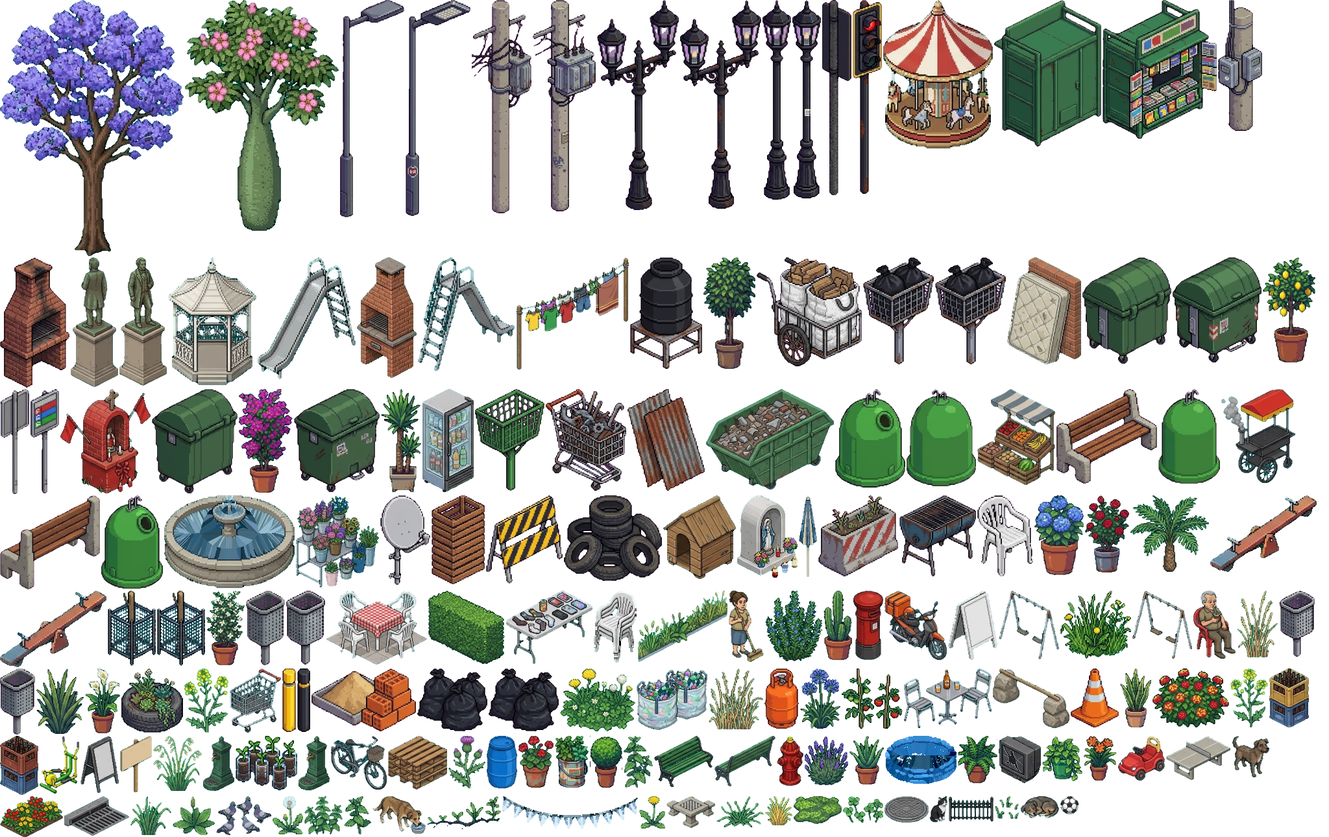
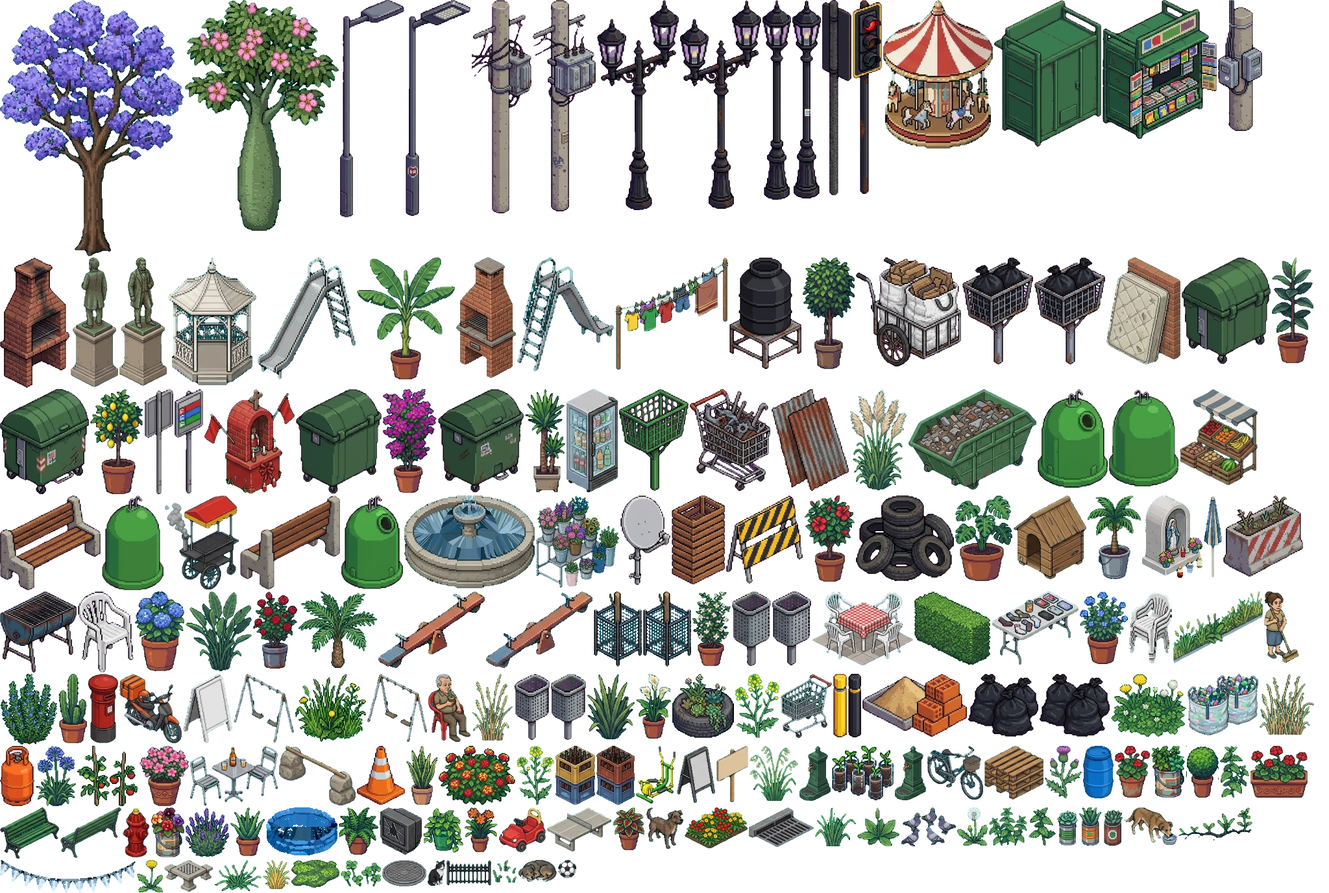
Plantas nuevas de Gemini: hibisco, monstera, gomero, ave del paraíso, azalea, coleo, banano, cortadera, plumbago, begonias, palmera en balde, suculentas en latas y jardinera de malvones
Hoja plantas_04 (persona de referencia, a escala), achicada 2x. Van en las macetas de los frentes, los patios y los canteros de vereda según la zona.

Claude-Session: https://claude.ai/code/session_015eL21ADLwrYXVptdMb8b8s

diff --git a/editor/recursos/hd_props.js b/editor/recursos/hd_props.js
@@ -1,2 +1,2 @@
 // props HD (Gemini, limpiados a 30 px/m con herramientas/pixelar.py; armado con herramientas/armar_hd.py)
-const HD_ASSETS = {"escala": 0.6, "frames": {"antena": {"x": 586, "y": 764, "w": 77, "h": 138, "ox": 38, "oy": 132, "e": 0.173}, "b_arco": {"x": 1530, "y": 1031, "w": 118, "h": 92, "ox": 59, "oy": 87, "e": 0.3706}, "b_autito": {"x": 1723, "y": 1135, "w": 72, "h": 69, "ox": 36, "oy": 64, "e": 0.3706}, "b_bolsones": {"x": 981, "y": 1031, "w": 109, "h": 95, "ox": 54, "oy": 90, "e": 0.3706}, "b_cartel_vende": {"x": 185, "y": 1135, "w": 49, "h": 87, "ox": 24, "oy": 82, "e": 0.3706}, "b_chango_vacio": {"x": 354, "y": 1031, "w": 79, "h": 99, "ox": 39, "oy": 94, "e": 0.3706}, "b_jaula": {"x": 242, "y": 911, "w": 74, "h": 116, "ox": 37, "oy": 107, "e": 0.2672}, "b_mesa_patio": {"x": 503, "y": 911, "w": 155, "h": 114, "ox": 77, "oy": 109, "e": 0.3706}, "b_mujer_barre": {"x": 1123, "y": 911, "w": 54, "h": 110, "ox": 27, "oy": 105, "e": 0.3706}, "b_pallets": {"x": 598, "y": 1135, "w": 91, "h": 83, "ox": 45, "oy": 78, "e": 0.3706}, "b_pelota": {"x": 1634, "y": 1228, "w": 28, "h": 28, "ox": 14, "oy": 23, "e": 0.3706}, "b_perro_bebe": {"x": 574, "y": 1228, "w": 82, "h": 58, "ox": 41, "oy": 53, "e": 0.3706}, "b_sombrilla": {"x": 1231, "y": 764, "w": 28, "h": 126, "ox": 14, "oy": 121, "e": 0.3706}, "b_tacho_azul": {"x": 750, "y": 1135, "w": 47, "h": 81, "ox": 23, "oy": 76, "e": 0.3706}, "b_tendedero": {"x": 795, "y": 397, "w": 174, "h": 173, "ox": 87, "oy": 168, "e": 0.3706}, "b_viejo_mate": {"x": 1839, "y": 911, "w": 65, "h": 105, "ox": 32, "oy": 100, "e": 0.3706}, "bolsas_0": {"x": 643, "y": 1031, "w": 108, "h": 97, "ox": 54, "oy": 88, "e": 0.1635}, "bolsas_1": {"x": 753, "y": 1031, "w": 108, "h": 97, "ox": 54, "oy": 88, "e": 0.1635}, "c_bici": {"x": 510, "y": 1135, "w": 86, "h": 83, "ox": 43, "oy": 79, "e": 0.4173}, "c_buzon": {"x": 1315, "y": 911, "w": 46, "h": 107, "ox": 23, "oy": 103, "e": 0.4173}, "c_chori": {"x": 1882, "y": 600, "w": 114, "h": 145, "ox": 57, "oy": 141, "e": 0.4173}, "c_gato": {"x": 1433, "y": 1228, "w": 27, "h": 40, "ox": 13, "oy": 36, "e": 0.4173}, "c_hidrante": {"x": 1197, "y": 1135, "w": 41, "h": 77, "ox": 20, "oy": 73, "e": 0.4173}, "c_mesa_bar": {"x": 1393, "y": 1031, "w": 135, "h": 92, "ox": 67, "oy": 88, "e": 0.4173}, "c_moto": {"x": 1363, "y": 911, "w": 96, "h": 107, "ox": 48, "oy": 103, "e": 0.4173}, "c_palomas": {"x": 333, "y": 1228, "w": 85, "h": 60, "ox": 42, "oy": 56, "e": 0.4173}, "c_perro": {"x": 1898, "y": 1135, "w": 58, "h": 64, "ox": 29, "oy": 60, "e": 0.4173}, "c_perro_duerme": {"x": 1572, "y": 1228, "w": 60, "h": 34, "ox": 30, "oy": 30, "e": 0.4173}, "c_puesto_flores": {"x": 456, "y": 764, "w": 128, "h": 142, "ox": 64, "oy": 138, "e": 0.4173}, "c_puesto_frutas": {"x": 1506, "y": 600, "w": 120, "h": 148, "ox": 60, "oy": 144, "e": 0.4173}, "c_rejilla": {"x": 99, "y": 1228, "w": 100, "h": 61, "ox": 50, "oy": 57, "e": 0.4173}, "c_tapa": {"x": 1363, "y": 1228, "w": 68, "h": 41, "ox": 34, "oy": 37, "e": 0.4173}, "c_volquete": {"x": 1088, "y": 600, "w": 197, "h": 155, "ox": 98, "oy": 151, "e": 0.4173}, "cajones": {"x": 665, "y": 764, "w": 82, "h": 137, "ox": 41, "oy": 126, "e": 0.173}, "canasto_0": {"x": 1330, "y": 397, "w": 109, "h": 165, "ox": 54, "oy": 147, "e": 0.1635}, "canasto_1": {"x": 732, "y": 600, "w": 107, "h": 157, "ox": 53, "oy": 139, "e": 0.1635}, "canasto_2": {"x": 1441, "y": 397, "w": 109, "h": 165, "ox": 54, "oy": 147, "e": 0.1635}, "carro_cartonero": {"x": 1166, "y": 397, "w": 162, "h": 168, "ox": 81, "oy": 159, "e": 0.173}, "chango": {"x": 841, "y": 600, "w": 124, "h": 157, "ox": 62, "oy": 133, "e": 0.173}, "chapas": {"x": 967, "y": 600, "w": 119, "h": 157, "ox": 59, "oy": 146, "e": 0.173}, "garrafa": {"x": 1178, "y": 1031, "w": 53, "h": 93, "ox": 26, "oy": 84, "e": 0.173}, "gomas": {"x": 869, "y": 764, "w": 151, "h": 132, "ox": 75, "oy": 105, "e": 0.173}, "k_banderines": {"x": 774, "y": 1228, "w": 209, "h": 51, "ox": 104, "oy": 46, "e": 0.3733}, "k_cajones_botellas": {"x": 1956, "y": 1031, "w": 61, "h": 91, "ox": 30, "oy": 86, "e": 0.3733}, "k_cajones_botellas_b": {"x": 0, "y": 1135, "w": 59, "h": 91, "ox": 29, "oy": 86, "e": 0.3733}, "k_colchon": {"x": 1552, "y": 397, "w": 114, "h": 165, "ox": 57, "oy": 160, "e": 0.3733}, "k_cucha": {"x": 1022, "y": 764, "w": 112, "h": 129, "ox": 56, "oy": 124, "e": 0.3733}, "k_gauchito": {"x": 93, "y": 600, "w": 139, "h": 161, "ox": 69, "oy": 156, "e": 0.3733}, "k_heladera": {"x": 651, "y": 600, "w": 79, "h": 159, "ox": 39, "oy": 154, "e": 0.3733}, "k_mantero": {"x": 780, "y": 911, "w": 133, "h": 113, "ox": 66, "oy": 108, "e": 0.3733}, "k_pelopincho": {"x": 1364, "y": 1135, "w": 110, "h": 74, "ox": 55, "oy": 69, "e": 0.3733}, "k_pizarra_helado": {"x": 1461, "y": 911, "w": 76, "h": 107, "ox": 38, "oy": 102, "e": 0.3733}, "k_sillas_pila": {"x": 915, "y": 911, "w": 66, "h": 111, "ox": 33, "oy": 106, "e": 0.3733}, "k_tele": {"x": 1539, "y": 1135, "w": 65, "h": 73, "ox": 32, "oy": 68, "e": 0.3733}, "k_virgen": {"x": 1136, "y": 764, "w": 93, "h": 127, "ox": 46, "oy": 122, "e": 0.3733}, "obra_material": {"x": 480, "y": 1031, "w": 161, "h": 97, "ox": 80, "oy": 88, "e": 0.1635}, "parrilla": {"x": 0, "y": 397, "w": 107, "h": 201, "ox": 53, "oy": 172, "e": 0.1635}, "parrilla_b": {"x": 550, "y": 397, "w": 92, "h": 186, "ox": 46, "oy": 181, "e": 0.3733}, "parrilla_tambor": {"x": 1386, "y": 764, "w": 118, "h": 125, "ox": 59, "oy": 108, "e": 0.173}, "pizarra_0": {"x": 124, "y": 1135, "w": 59, "h": 88, "ox": 29, "oy": 83, "e": 0.3706}, "pl_aloe": {"x": 1309, "y": 1135, "w": 53, "h": 75, "ox": 26, "oy": 67, "e": 0.184}, "pl_balde": {"x": 855, "y": 1135, "w": 52, "h": 80, "ox": 26, "oy": 72, "e": 0.184}, "pl_boj": {"x": 909, "y": 1135, "w": 50, "h": 80, "ox": 25, "oy": 72, "e": 0.184}, "pl_botellas": {"x": 363, "y": 1135, "w": 95, "h": 84, "ox": 47, "oy": 67, "e": 0.1134}, "pl_cactus": {"x": 1269, "y": 911, "w": 44, "h": 107, "ox": 22, "oy": 99, "e": 0.184}, "pl_calas": {"x": 131, "y": 1031, "w": 54, "h": 100, "ox": 27, "oy": 92, "e": 0.184}, "pl_clivia": {"x": 1670, "y": 1135, "w": 51, "h": 69, "ox": 25, "oy": 61, "e": 0.184}, "pl_cubierta": {"x": 187, "y": 1031, "w": 95, "h": 99, "ox": 47, "oy": 76, "e": 0.1431}, "pl_ficus": {"x": 1084, "y": 397, "w": 80, "h": 172, "ox": 40, "oy": 164, "e": 0.184}, "pl_helecho": {"x": 1476, "y": 1135, "w": 61, "h": 73, "ox": 30, "oy": 65, "e": 0.184}, "pl_hortensia": {"x": 1594, "y": 764, "w": 76, "h": 123, "ox": 38, "oy": 115, "e": 0.184}, "pl_jaula": {"x": 166, "y": 911, "w": 74, "h": 116, "ox": 37, "oy": 107, "e": 0.2672}, "pl_lavanda": {"x": 1240, "y": 1135, "w": 67, "h": 76, "ox": 33, "oy": 68, "e": 0.184}, "pl_ligustrina": {"x": 660, "y": 911, "w": 118, "h": 113, "ox": 59, "oy": 106, "e": 0.2441}, "pl_limonero": {"x": 1946, "y": 397, "w": 81, "h": 162, "ox": 40, "oy": 154, "e": 0.184}, "pl_malvon": {"x": 799, "y": 1135, "w": 54, "h": 80, "ox": 27, "oy": 72, "e": 0.184}, "pl_potus": {"x": 1606, "y": 1135, "w": 62, "h": 70, "ox": 31, "oy": 62, "e": 0.184}, "pl_sansevieria": {"x": 1726, "y": 1031, "w": 48, "h": 91, "ox": 24, "oy": 83, "e": 0.184}, "pl_trebol": {"x": 863, "y": 1031, "w": 116, "h": 97, "ox": 58, "oy": 85, "e": 0.1247}, "plm_agapanto": {"x": 1233, "y": 1031, "w": 62, "h": 93, "ox": 31, "oy": 85, "e": 0.184}, "plm_formio": {"x": 56, "y": 1031, "w": 73, "h": 101, "ox": 36, "oy": 93, "e": 0.184}, "plm_jazmin": {"x": 318, "y": 911, "w": 59, "h": 115, "ox": 29, "oy": 107, "e": 0.184}, "plm_lantana": {"x": 1776, "y": 1031, "w": 118, "h": 91, "ox": 59, "oy": 73, "e": 0.1891}, "plm_pindo": {"x": 1742, "y": 764, "w": 121, "h": 118, "ox": 60, "oy": 103, "e": 0.3821}, "plm_romero": {"x": 1179, "y": 911, "w": 88, "h": 109, "ox": 44, "oy": 93, "e": 0.1783}, "plm_rosal": {"x": 1672, "y": 764, "w": 68, "h": 119, "ox": 34, "oy": 111, "e": 0.184}, "plm_santarita": {"x": 368, "y": 600, "w": 83, "h": 160, "ox": 41, "oy": 152, "e": 0.184}, "plm_tomates": {"x": 1297, "y": 1031, "w": 94, "h": 93, "ox": 47, "oy": 83, "e": 0.1895}, "plm_yuca": {"x": 587, "y": 600, "w": 62, "h": 159, "ox": 31, "oy": 151, "e": 0.184}, "plm_yuyos": {"x": 1634, "y": 911, "w": 109, "h": 105, "ox": 54, "oy": 89, "e": 0.1776}, "pz_ajedrez": {"x": 1027, "y": 1228, "w": 75, "h": 49, "ox": 37, "oy": 45, "e": 0.4349}, "pz_aparato": {"x": 61, "y": 1135, "w": 61, "h": 89, "ox": 30, "oy": 76, "e": 0.3835}, "pz_banco": {"x": 1008, "y": 1135, "w": 91, "h": 79, "ox": 45, "oy": 74, "e": 0.358}, "pz_banco_atras": {"x": 1101, "y": 1135, "w": 94, "h": 78, "ox": 47, "oy": 73, "e": 0.3465}, "pz_bebedero": {"x": 460, "y": 1135, "w": 48, "h": 84, "ox": 24, "oy": 76, "e": 0.247}, "pz_bebedero_atras": {"x": 313, "y": 1135, "w": 48, "h": 85, "ox": 24, "oy": 77, "e": 0.2455}, "pz_calesita": {"x": 1361, "y": 0, "w": 169, "h": 229, "ox": 84, "oy": 225, "e": 0.4793}, "pz_cantero": {"x": 0, "y": 1228, "w": 97, "h": 63, "ox": 48, "oy": 59, "e": 0.4663}, "pz_fuente": {"x": 253, "y": 764, "w": 201, "h": 143, "ox": 100, "oy": 139, "e": 0.403}, "pz_glorieta": {"x": 259, "y": 397, "w": 136, "h": 197, "ox": 68, "oy": 193, "e": 0.4633}, "pz_hamacas": {"x": 1745, "y": 911, "w": 92, "h": 105, "ox": 46, "oy": 90, "e": 0.4872}, "pz_hamacas_atras": {"x": 1539, "y": 911, "w": 93, "h": 106, "ox": 46, "oy": 91, "e": 0.4826}, "pz_jacaranda": {"x": 0, "y": 0, "w": 283, "h": 395, "ox": 141, "oy": 369, "e": 0.3613}, "pz_monumento": {"x": 184, "y": 397, "w": 73, "h": 198, "ox": 36, "oy": 184, "e": 0.5012}, "pz_monumento_atras": {"x": 109, "y": 397, "w": 73, "h": 200, "ox": 36, "oy": 185, "e": 0.4962}, "pz_palo_borracho": {"x": 285, "y": 0, "w": 237, "h": 356, "ox": 118, "oy": 331, "e": 0.379}, "pz_pingpong": {"x": 1797, "y": 1135, "w": 99, "h": 68, "ox": 49, "oy": 64, "e": 0.4934}, "pz_reja": {"x": 1462, "y": 1228, "w": 69, "h": 39, "ox": 34, "oy": 35, "e": 0.5218}, "pz_subibaja": {"x": 1865, "y": 764, "w": 164, "h": 118, "ox": 82, "oy": 113, "e": 0.3293}, "pz_subibaja_atras": {"x": 0, "y": 911, "w": 164, "h": 118, "ox": 82, "oy": 113, "e": 0.3293}, "pz_tobogan": {"x": 397, "y": 397, "w": 151, "h": 188, "ox": 75, "oy": 183, "e": 0.3576}, "pz_tobogan_atras": {"x": 644, "y": 397, "w": 149, "h": 176, "ox": 74, "oy": 171, "e": 0.3624}, "silla": {"x": 1506, "y": 764, "w": 86, "h": 125, "ox": 43, "oy": 111, "e": 0.173}, "u_banco": {"x": 1628, "y": 600, "w": 155, "h": 146, "ox": 77, "oy": 139, "e": 0.2304}, "u_banco_atras": {"x": 0, "y": 764, "w": 154, "h": 145, "ox": 77, "oy": 138, "e": 0.2275}, "u_bolardo_amarillo": {"x": 435, "y": 1031, "w": 21, "h": 98, "ox": 10, "oy": 91, "e": 0.1635}, "u_bolardo_negro": {"x": 458, "y": 1031, "w": 20, "h": 98, "ox": 10, "oy": 91, "e": 0.1635}, "u_campana": {"x": 1287, "y": 600, "w": 108, "h": 152, "ox": 54, "oy": 126, "e": 0.2304}, "u_campana_atras": {"x": 1397, "y": 600, "w": 107, "h": 150, "ox": 53, "oy": 123, "e": 0.2275}, "u_campana_b": {"x": 156, "y": 764, "w": 95, "h": 144, "ox": 47, "oy": 118, "e": 0.2304}, "u_campana_b_atras": {"x": 1785, "y": 600, "w": 95, "h": 146, "ox": 47, "oy": 119, "e": 0.2275}, "u_cesto": {"x": 1971, "y": 911, "w": 55, "h": 102, "ox": 27, "oy": 93, "e": 0.2304}, "u_cesto_atras": {"x": 0, "y": 1031, "w": 54, "h": 102, "ox": 27, "oy": 93, "e": 0.2275}, "u_cesto_b": {"x": 441, "y": 911, "w": 60, "h": 114, "ox": 30, "oy": 105, "e": 0.2304}, "u_cesto_b_atras": {"x": 379, "y": 911, "w": 60, "h": 115, "ox": 30, "oy": 106, "e": 0.2275}, "u_cono": {"x": 1650, "y": 1031, "w": 74, "h": 91, "ox": 37, "oy": 79, "e": 0.1635}, "u_contenedor": {"x": 1807, "y": 397, "w": 137, "h": 162, "ox": 68, "oy": 138, "e": 0.2304}, "u_contenedor_atras": {"x": 1668, "y": 397, "w": 137, "h": 164, "ox": 68, "oy": 139, "e": 0.2275}, "u_contenedor_b": {"x": 453, "y": 600, "w": 132, "h": 159, "ox": 66, "oy": 135, "e": 0.2304}, "u_contenedor_b_atras": {"x": 234, "y": 600, "w": 132, "h": 161, "ox": 66, "oy": 136, "e": 0.2275}, "u_farol_doble": {"x": 1048, "y": 0, "w": 125, "h": 322, "ox": 62, "oy": 315, "e": 0.223}, "u_farol_doble_atras": {"x": 920, "y": 0, "w": 126, "h": 324, "ox": 63, "oy": 317, "e": 0.2216}, "u_farola": {"x": 625, "y": 0, "w": 100, "h": 333, "ox": 50, "oy": 329, "e": 0.4219}, "u_farola_atras": {"x": 524, "y": 0, "w": 99, "h": 335, "ox": 49, "oy": 331, "e": 0.4188}, "u_farola_orn": {"x": 1221, "y": 0, "w": 44, "h": 306, "ox": 22, "oy": 298, "e": 0.2041}, "u_farola_orn_atras": {"x": 1175, "y": 0, "w": 44, "h": 308, "ox": 22, "oy": 300, "e": 0.2028}, "u_kiosco": {"x": 1699, "y": 0, "w": 176, "h": 214, "ox": 88, "oy": 182, "e": 0.2304}, "u_kiosco_atras": {"x": 1532, "y": 0, "w": 165, "h": 226, "ox": 82, "oy": 193, "e": 0.2275}, "u_macetero": {"x": 1261, "y": 764, "w": 123, "h": 125, "ox": 61, "oy": 102, "e": 0.1635}, "u_parada": {"x": 47, "y": 600, "w": 44, "h": 161, "ox": 22, "oy": 158, "e": 0.2304}, "u_parada_atras": {"x": 0, "y": 600, "w": 45, "h": 162, "ox": 22, "oy": 159, "e": 0.2275}, "u_poste_trafo": {"x": 821, "y": 0, "w": 97, "h": 326, "ox": 48, "oy": 321, "e": 0.364}, "u_poste_trafo_atras": {"x": 727, "y": 0, "w": 92, "h": 329, "ox": 46, "oy": 324, "e": 0.3607}, "u_semaforo": {"x": 1314, "y": 0, "w": 45, "h": 299, "ox": 22, "oy": 291, "e": 0.188}, "u_semaforo_atras": {"x": 1267, "y": 0, "w": 45, "h": 301, "ox": 22, "oy": 293, "e": 0.1864}, "u_tablero": {"x": 1877, "y": 0, "w": 68, "h": 202, "ox": 34, "oy": 190, "e": 0.1635}, "u_tanque": {"x": 971, "y": 397, "w": 111, "h": 172, "ox": 55, "oy": 145, "e": 0.173}, "u_valla": {"x": 749, "y": 764, "w": 118, "h": 136, "ox": 59, "oy": 118, "e": 0.1635}, "yy_avena": {"x": 236, "y": 1135, "w": 75, "h": 85, "ox": 37, "oy": 78, "e": 0.2255}, "yy_brotes": {"x": 1533, "y": 1228, "w": 37, "h": 35, "ox": 18, "oy": 28, "e": 0.2255}, "yy_cardo": {"x": 691, "y": 1135, "w": 57, "h": 81, "ox": 28, "oy": 74, "e": 0.2255}, "yy_cola_zorro": {"x": 201, "y": 1228, "w": 63, "h": 60, "ox": 31, "oy": 53, "e": 0.2255}, "yy_cordon": {"x": 983, "y": 911, "w": 138, "h": 110, "ox": 69, "oy": 103, "e": 0.2087}, "yy_diente_leon": {"x": 985, "y": 1228, "w": 40, "h": 50, "ox": 20, "oy": 43, "e": 0.2255}, "yy_diente_leon_b": {"x": 420, "y": 1228, "w": 47, "h": 59, "ox": 23, "oy": 52, "e": 0.2255}, "yy_gramilla": {"x": 1104, "y": 1228, "w": 73, "h": 48, "ox": 36, "oy": 41, "e": 0.2255}, "yy_grieta": {"x": 658, "y": 1228, "w": 114, "h": 51, "ox": 57, "oy": 38, "e": 0.111}, "yy_llanten": {"x": 266, "y": 1228, "w": 65, "h": 60, "ox": 32, "oy": 53, "e": 0.2255}, "yy_mostacilla": {"x": 284, "y": 1031, "w": 68, "h": 99, "ox": 34, "oy": 92, "e": 0.2255}, "yy_mostacilla_b": {"x": 1896, "y": 1031, "w": 58, "h": 91, "ox": 29, "oy": 84, "e": 0.2255}, "yy_musgo": {"x": 1223, "y": 1228, "w": 74, "h": 43, "ox": 37, "oy": 36, "e": 0.2255}, "yy_ortiga": {"x": 469, "y": 1228, "w": 59, "h": 59, "ox": 29, "oy": 52, "e": 0.2255}, "yy_ortiga_b": {"x": 530, "y": 1228, "w": 42, "h": 59, "ox": 21, "oy": 52, "e": 0.2255}, "yy_ortiga_c": {"x": 961, "y": 1135, "w": 45, "h": 80, "ox": 22, "oy": 73, "e": 0.2255}, "yy_pasto_seco": {"x": 1179, "y": 1228, "w": 42, "h": 45, "ox": 21, "oy": 38, "e": 0.2255}, "yy_seco_alto": {"x": 1092, "y": 1031, "w": 84, "h": 94, "ox": 42, "oy": 87, "e": 0.2255}, "yy_seco_alto_b": {"x": 1906, "y": 911, "w": 63, "h": 103, "ox": 31, "oy": 96, "e": 0.2255}, "yy_trebol": {"x": 1299, "y": 1228, "w": 62, "h": 41, "ox": 31, "oy": 34, "e": 0.2255}}};
+const HD_ASSETS = {"escala": 0.6, "frames": {"antena": {"x": 956, "y": 764, "w": 77, "h": 138, "ox": 38, "oy": 132, "e": 0.173}, "b_arco": {"x": 430, "y": 1150, "w": 118, "h": 92, "ox": 59, "oy": 87, "e": 0.3706}, "b_autito": {"x": 769, "y": 1245, "w": 72, "h": 69, "ox": 36, "oy": 64, "e": 0.3706}, "b_bolsones": {"x": 1830, "y": 1039, "w": 109, "h": 95, "ox": 54, "oy": 90, "e": 0.3706}, "b_cartel_vende": {"x": 1104, "y": 1150, "w": 49, "h": 87, "ox": 24, "oy": 82, "e": 0.3706}, "b_chango_vacio": {"x": 1203, "y": 1039, "w": 79, "h": 99, "ox": 39, "oy": 94, "e": 0.3706}, "b_jaula": {"x": 991, "y": 912, "w": 74, "h": 116, "ox": 37, "oy": 107, "e": 0.2672}, "b_mesa_patio": {"x": 1252, "y": 912, "w": 155, "h": 114, "ox": 77, "oy": 109, "e": 0.3706}, "b_mujer_barre": {"x": 1948, "y": 912, "w": 54, "h": 110, "ox": 27, "oy": 105, "e": 0.3706}, "b_pallets": {"x": 1517, "y": 1150, "w": 91, "h": 83, "ox": 45, "oy": 78, "e": 0.3706}, "b_pelota": {"x": 860, "y": 1326, "w": 28, "h": 28, "ox": 14, "oy": 23, "e": 0.3706}, "b_perro_bebe": {"x": 1732, "y": 1245, "w": 82, "h": 58, "ox": 41, "oy": 53, "e": 0.3706}, "b_sombrilla": {"x": 1855, "y": 764, "w": 28, "h": 126, "ox": 14, "oy": 121, "e": 0.3706}, "b_tacho_azul": {"x": 1669, "y": 1150, "w": 47, "h": 81, "ox": 23, "oy": 76, "e": 0.3706}, "b_tendedero": {"x": 948, "y": 397, "w": 174, "h": 173, "ox": 87, "oy": 168, "e": 0.3706}, "b_viejo_mate": {"x": 660, "y": 1039, "w": 65, "h": 105, "ox": 32, "oy": 100, "e": 0.3706}, "bolsas_0": {"x": 1492, "y": 1039, "w": 108, "h": 97, "ox": 54, "oy": 88, "e": 0.1635}, "bolsas_1": {"x": 1602, "y": 1039, "w": 108, "h": 97, "ox": 54, "oy": 88, "e": 0.1635}, "c_bici": {"x": 1429, "y": 1150, "w": 86, "h": 83, "ox": 43, "oy": 79, "e": 0.4173}, "c_buzon": {"x": 136, "y": 1039, "w": 46, "h": 107, "ox": 23, "oy": 103, "e": 0.4173}, "c_chori": {"x": 254, "y": 764, "w": 114, "h": 145, "ox": 57, "oy": 141, "e": 0.4173}, "c_gato": {"x": 659, "y": 1326, "w": 27, "h": 40, "ox": 13, "oy": 36, "e": 0.4173}, "c_hidrante": {"x": 189, "y": 1245, "w": 41, "h": 77, "ox": 20, "oy": 73, "e": 0.4173}, "c_mesa_bar": {"x": 293, "y": 1150, "w": 135, "h": 92, "ox": 67, "oy": 88, "e": 0.4173}, "c_moto": {"x": 184, "y": 1039, "w": 96, "h": 107, "ox": 48, "oy": 103, "e": 0.4173}, "c_palomas": {"x": 1388, "y": 1245, "w": 85, "h": 60, "ox": 42, "oy": 56, "e": 0.4173}, "c_perro": {"x": 995, "y": 1245, "w": 58, "h": 64, "ox": 29, "oy": 60, "e": 0.4173}, "c_perro_duerme": {"x": 798, "y": 1326, "w": 60, "h": 34, "ox": 30, "oy": 30, "e": 0.4173}, "c_puesto_flores": {"x": 826, "y": 764, "w": 128, "h": 142, "ox": 64, "oy": 138, "e": 0.4173}, "c_puesto_frutas": {"x": 1818, "y": 600, "w": 120, "h": 148, "ox": 60, "oy": 144, "e": 0.4173}, "c_rejilla": {"x": 1154, "y": 1245, "w": 100, "h": 61, "ox": 50, "oy": 57, "e": 0.4173}, "c_tapa": {"x": 589, "y": 1326, "w": 68, "h": 41, "ox": 34, "oy": 37, "e": 0.4173}, "c_volquete": {"x": 1400, "y": 600, "w": 197, "h": 155, "ox": 98, "oy": 151, "e": 0.4173}, "cajones": {"x": 1035, "y": 764, "w": 82, "h": 137, "ox": 41, "oy": 126, "e": 0.173}, "canasto_0": {"x": 1483, "y": 397, "w": 109, "h": 165, "ox": 54, "oy": 147, "e": 0.1635}, "canasto_1": {"x": 954, "y": 600, "w": 107, "h": 157, "ox": 53, "oy": 139, "e": 0.1635}, "canasto_2": {"x": 1594, "y": 397, "w": 109, "h": 165, "ox": 54, "oy": 147, "e": 0.1635}, "carro_cartonero": {"x": 1319, "y": 397, "w": 162, "h": 168, "ox": 81, "oy": 159, "e": 0.173}, "chango": {"x": 1063, "y": 600, "w": 124, "h": 157, "ox": 62, "oy": 133, "e": 0.173}, "chapas": {"x": 1189, "y": 600, "w": 119, "h": 157, "ox": 59, "oy": 146, "e": 0.173}, "garrafa": {"x": 0, "y": 1150, "w": 53, "h": 93, "ox": 26, "oy": 84, "e": 0.173}, "gomas": {"x": 1319, "y": 764, "w": 151, "h": 132, "ox": 75, "oy": 105, "e": 0.173}, "k_banderines": {"x": 0, "y": 1326, "w": 209, "h": 51, "ox": 104, "oy": 46, "e": 0.3733}, "k_cajones_botellas": {"x": 856, "y": 1150, "w": 61, "h": 91, "ox": 30, "oy": 86, "e": 0.3733}, "k_cajones_botellas_b": {"x": 919, "y": 1150, "w": 59, "h": 91, "ox": 29, "oy": 86, "e": 0.3733}, "k_colchon": {"x": 1705, "y": 397, "w": 114, "h": 165, "ox": 57, "oy": 160, "e": 0.3733}, "k_cucha": {"x": 1562, "y": 764, "w": 112, "h": 129, "ox": 56, "oy": 124, "e": 0.3733}, "k_gauchito": {"x": 315, "y": 600, "w": 139, "h": 161, "ox": 69, "oy": 156, "e": 0.3733}, "k_heladera": {"x": 873, "y": 600, "w": 79, "h": 159, "ox": 39, "oy": 154, "e": 0.3733}, "k_mantero": {"x": 1529, "y": 912, "w": 133, "h": 113, "ox": 66, "oy": 108, "e": 0.3733}, "k_pelopincho": {"x": 410, "y": 1245, "w": 110, "h": 74, "ox": 55, "oy": 69, "e": 0.3733}, "k_pizarra_helado": {"x": 282, "y": 1039, "w": 76, "h": 107, "ox": 38, "oy": 102, "e": 0.3733}, "k_sillas_pila": {"x": 1740, "y": 912, "w": 66, "h": 111, "ox": 33, "oy": 106, "e": 0.3733}, "k_tele": {"x": 585, "y": 1245, "w": 65, "h": 73, "ox": 32, "oy": 68, "e": 0.3733}, "k_virgen": {"x": 1760, "y": 764, "w": 93, "h": 127, "ox": 46, "oy": 122, "e": 0.3733}, "obra_material": {"x": 1329, "y": 1039, "w": 161, "h": 97, "ox": 80, "oy": 88, "e": 0.1635}, "parrilla": {"x": 0, "y": 397, "w": 107, "h": 201, "ox": 53, "oy": 172, "e": 0.1635}, "parrilla_b": {"x": 703, "y": 397, "w": 92, "h": 186, "ox": 46, "oy": 181, "e": 0.3733}, "parrilla_tambor": {"x": 0, "y": 912, "w": 118, "h": 125, "ox": 59, "oy": 108, "e": 0.173}, "pizarra_0": {"x": 1043, "y": 1150, "w": 59, "h": 88, "ox": 29, "oy": 83, "e": 0.3706}, "pl_aloe": {"x": 355, "y": 1245, "w": 53, "h": 75, "ox": 26, "oy": 67, "e": 0.184}, "pl_azalea": {"x": 215, "y": 1150, "w": 76, "h": 93, "ox": 38, "oy": 82, "e": 0.1834}, "pl_balde": {"x": 1774, "y": 1150, "w": 52, "h": 80, "ox": 26, "oy": 72, "e": 0.184}, "pl_begonias": {"x": 232, "y": 1245, "w": 52, "h": 77, "ox": 26, "oy": 69, "e": 0.1834}, "pl_boj": {"x": 1828, "y": 1150, "w": 50, "h": 80, "ox": 25, "oy": 72, "e": 0.184}, "pl_botellas": {"x": 1282, "y": 1150, "w": 95, "h": 84, "ox": 47, "oy": 67, "e": 0.1134}, "pl_cactus": {"x": 90, "y": 1039, "w": 44, "h": 107, "ox": 22, "oy": 99, "e": 0.184}, "pl_calas": {"x": 980, "y": 1039, "w": 54, "h": 100, "ox": 27, "oy": 92, "e": 0.184}, "pl_clivia": {"x": 716, "y": 1245, "w": 51, "h": 69, "ox": 25, "oy": 61, "e": 0.184}, "pl_coleo": {"x": 944, "y": 1245, "w": 49, "h": 66, "ox": 24, "oy": 58, "e": 0.1834}, "pl_cubierta": {"x": 1036, "y": 1039, "w": 95, "h": 99, "ox": 47, "oy": 76, "e": 0.1431}, "pl_ficus": {"x": 1237, "y": 397, "w": 80, "h": 172, "ox": 40, "oy": 164, "e": 0.184}, "pl_gomero": {"x": 1960, "y": 397, "w": 64, "h": 163, "ox": 32, "oy": 150, "e": 0.1834}, "pl_helecho": {"x": 522, "y": 1245, "w": 61, "h": 73, "ox": 30, "oy": 65, "e": 0.184}, "pl_hibisco": {"x": 1239, "y": 764, "w": 78, "h": 133, "ox": 39, "oy": 120, "e": 0.1834}, "pl_hortensia": {"x": 208, "y": 912, "w": 76, "h": 123, "ox": 38, "oy": 115, "e": 0.184}, "pl_jardinera": {"x": 1927, "y": 1150, "w": 88, "h": 80, "ox": 44, "oy": 72, "e": 0.1834}, "pl_jaula": {"x": 915, "y": 912, "w": 74, "h": 116, "ox": 37, "oy": 107, "e": 0.2672}, "pl_lavanda": {"x": 286, "y": 1245, "w": 67, "h": 76, "ox": 33, "oy": 68, "e": 0.184}, "pl_ligustrina": {"x": 1409, "y": 912, "w": 118, "h": 113, "ox": 59, "oy": 106, "e": 0.2441}, "pl_limonero": {"x": 139, "y": 600, "w": 81, "h": 162, "ox": 40, "oy": 154, "e": 0.184}, "pl_malvon": {"x": 1718, "y": 1150, "w": 54, "h": 80, "ox": 27, "oy": 72, "e": 0.184}, "pl_monstera": {"x": 1472, "y": 764, "w": 88, "h": 132, "ox": 44, "oy": 116, "e": 0.1834}, "pl_palmera": {"x": 1676, "y": 764, "w": 82, "h": 129, "ox": 41, "oy": 118, "e": 0.1834}, "pl_potus": {"x": 652, "y": 1245, "w": 62, "h": 70, "ox": 31, "oy": 62, "e": 0.184}, "pl_sansevieria": {"x": 626, "y": 1150, "w": 48, "h": 91, "ox": 24, "oy": 83, "e": 0.184}, "pl_suculentas": {"x": 1629, "y": 1245, "w": 101, "h": 59, "ox": 50, "oy": 53, "e": 0.1834}, "pl_trebol": {"x": 1712, "y": 1039, "w": 116, "h": 97, "ox": 58, "oy": 85, "e": 0.1247}, "plm_agapanto": {"x": 55, "y": 1150, "w": 62, "h": 93, "ox": 31, "oy": 85, "e": 0.184}, "plm_banano": {"x": 550, "y": 397, "w": 151, "h": 188, "ox": 75, "oy": 172, "e": 0.1834}, "plm_cortadera": {"x": 1310, "y": 600, "w": 88, "h": 156, "ox": 44, "oy": 135, "e": 0.1834}, "plm_formio": {"x": 905, "y": 1039, "w": 73, "h": 101, "ox": 36, "oy": 93, "e": 0.184}, "plm_jazmin": {"x": 1067, "y": 912, "w": 59, "h": 115, "ox": 29, "oy": 107, "e": 0.184}, "plm_lantana": {"x": 676, "y": 1150, "w": 118, "h": 91, "ox": 59, "oy": 73, "e": 0.1891}, "plm_pindo": {"x": 460, "y": 912, "w": 121, "h": 118, "ox": 60, "oy": 103, "e": 0.3821}, "plm_plumbago": {"x": 1664, "y": 912, "w": 74, "h": 112, "ox": 37, "oy": 99, "e": 0.1834}, "plm_romero": {"x": 0, "y": 1039, "w": 88, "h": 109, "ox": 44, "oy": 93, "e": 0.1783}, "plm_rosal": {"x": 390, "y": 912, "w": 68, "h": 119, "ox": 34, "oy": 111, "e": 0.184}, "plm_santarita": {"x": 590, "y": 600, "w": 83, "h": 160, "ox": 41, "oy": 152, "e": 0.184}, "plm_strelitzia": {"x": 286, "y": 912, "w": 102, "h": 123, "ox": 51, "oy": 107, "e": 0.1834}, "plm_tomates": {"x": 119, "y": 1150, "w": 94, "h": 93, "ox": 47, "oy": 83, "e": 0.1895}, "plm_yuca": {"x": 809, "y": 600, "w": 62, "h": 159, "ox": 31, "oy": 151, "e": 0.184}, "plm_yuyos": {"x": 455, "y": 1039, "w": 109, "h": 105, "ox": 54, "oy": 89, "e": 0.1776}, "pz_ajedrez": {"x": 253, "y": 1326, "w": 75, "h": 49, "ox": 37, "oy": 45, "e": 0.4349}, "pz_aparato": {"x": 980, "y": 1150, "w": 61, "h": 89, "ox": 30, "oy": 76, "e": 0.3835}, "pz_banco": {"x": 0, "y": 1245, "w": 91, "h": 79, "ox": 45, "oy": 74, "e": 0.358}, "pz_banco_atras": {"x": 93, "y": 1245, "w": 94, "h": 78, "ox": 47, "oy": 73, "e": 0.3465}, "pz_bebedero": {"x": 1379, "y": 1150, "w": 48, "h": 84, "ox": 24, "oy": 76, "e": 0.247}, "pz_bebedero_atras": {"x": 1232, "y": 1150, "w": 48, "h": 85, "ox": 24, "oy": 77, "e": 0.2455}, "pz_calesita": {"x": 1361, "y": 0, "w": 169, "h": 229, "ox": 84, "oy": 225, "e": 0.4793}, "pz_cantero": {"x": 1055, "y": 1245, "w": 97, "h": 63, "ox": 48, "oy": 59, "e": 0.4663}, "pz_fuente": {"x": 623, "y": 764, "w": 201, "h": 143, "ox": 100, "oy": 139, "e": 0.403}, "pz_glorieta": {"x": 259, "y": 397, "w": 136, "h": 197, "ox": 68, "oy": 193, "e": 0.4633}, "pz_hamacas": {"x": 566, "y": 1039, "w": 92, "h": 105, "ox": 46, "oy": 90, "e": 0.4872}, "pz_hamacas_atras": {"x": 360, "y": 1039, "w": 93, "h": 106, "ox": 46, "oy": 91, "e": 0.4826}, "pz_jacaranda": {"x": 0, "y": 0, "w": 283, "h": 395, "ox": 141, "oy": 369, "e": 0.3613}, "pz_monumento": {"x": 184, "y": 397, "w": 73, "h": 198, "ox": 36, "oy": 184, "e": 0.5012}, "pz_monumento_atras": {"x": 109, "y": 397, "w": 73, "h": 200, "ox": 36, "oy": 185, "e": 0.4962}, "pz_palo_borracho": {"x": 285, "y": 0, "w": 237, "h": 356, "ox": 118, "oy": 331, "e": 0.379}, "pz_pingpong": {"x": 843, "y": 1245, "w": 99, "h": 68, "ox": 49, "oy": 64, "e": 0.4934}, "pz_reja": {"x": 688, "y": 1326, "w": 69, "h": 39, "ox": 34, "oy": 35, "e": 0.5218}, "pz_subibaja": {"x": 583, "y": 912, "w": 164, "h": 118, "ox": 82, "oy": 113, "e": 0.3293}, "pz_subibaja_atras": {"x": 749, "y": 912, "w": 164, "h": 118, "ox": 82, "oy": 113, "e": 0.3293}, "pz_tobogan": {"x": 397, "y": 397, "w": 151, "h": 188, "ox": 75, "oy": 183, "e": 0.3576}, "pz_tobogan_atras": {"x": 797, "y": 397, "w": 149, "h": 176, "ox": 74, "oy": 171, "e": 0.3624}, "silla": {"x": 120, "y": 912, "w": 86, "h": 125, "ox": 43, "oy": 111, "e": 0.173}, "u_banco": {"x": 0, "y": 764, "w": 155, "h": 146, "ox": 77, "oy": 139, "e": 0.2304}, "u_banco_atras": {"x": 370, "y": 764, "w": 154, "h": 145, "ox": 77, "oy": 138, "e": 0.2275}, "u_bolardo_amarillo": {"x": 1284, "y": 1039, "w": 21, "h": 98, "ox": 10, "oy": 91, "e": 0.1635}, "u_bolardo_negro": {"x": 1307, "y": 1039, "w": 20, "h": 98, "ox": 10, "oy": 91, "e": 0.1635}, "u_campana": {"x": 1599, "y": 600, "w": 108, "h": 152, "ox": 54, "oy": 126, "e": 0.2304}, "u_campana_atras": {"x": 1709, "y": 600, "w": 107, "h": 150, "ox": 53, "oy": 123, "e": 0.2275}, "u_campana_b": {"x": 526, "y": 764, "w": 95, "h": 144, "ox": 47, "oy": 118, "e": 0.2304}, "u_campana_b_atras": {"x": 157, "y": 764, "w": 95, "h": 146, "ox": 47, "oy": 119, "e": 0.2275}, "u_cesto": {"x": 792, "y": 1039, "w": 55, "h": 102, "ox": 27, "oy": 93, "e": 0.2304}, "u_cesto_atras": {"x": 849, "y": 1039, "w": 54, "h": 102, "ox": 27, "oy": 93, "e": 0.2275}, "u_cesto_b": {"x": 1190, "y": 912, "w": 60, "h": 114, "ox": 30, "oy": 105, "e": 0.2304}, "u_cesto_b_atras": {"x": 1128, "y": 912, "w": 60, "h": 115, "ox": 30, "oy": 106, "e": 0.2275}, "u_cono": {"x": 550, "y": 1150, "w": 74, "h": 91, "ox": 37, "oy": 79, "e": 0.1635}, "u_contenedor": {"x": 0, "y": 600, "w": 137, "h": 162, "ox": 68, "oy": 138, "e": 0.2304}, "u_contenedor_atras": {"x": 1821, "y": 397, "w": 137, "h": 164, "ox": 68, "oy": 139, "e": 0.2275}, "u_contenedor_b": {"x": 675, "y": 600, "w": 132, "h": 159, "ox": 66, "oy": 135, "e": 0.2304}, "u_contenedor_b_atras": {"x": 456, "y": 600, "w": 132, "h": 161, "ox": 66, "oy": 136, "e": 0.2275}, "u_farol_doble": {"x": 1048, "y": 0, "w": 125, "h": 322, "ox": 62, "oy": 315, "e": 0.223}, "u_farol_doble_atras": {"x": 920, "y": 0, "w": 126, "h": 324, "ox": 63, "oy": 317, "e": 0.2216}, "u_farola": {"x": 625, "y": 0, "w": 100, "h": 333, "ox": 50, "oy": 329, "e": 0.4219}, "u_farola_atras": {"x": 524, "y": 0, "w": 99, "h": 335, "ox": 49, "oy": 331, "e": 0.4188}, "u_farola_orn": {"x": 1221, "y": 0, "w": 44, "h": 306, "ox": 22, "oy": 298, "e": 0.2041}, "u_farola_orn_atras": {"x": 1175, "y": 0, "w": 44, "h": 308, "ox": 22, "oy": 300, "e": 0.2028}, "u_kiosco": {"x": 1699, "y": 0, "w": 176, "h": 214, "ox": 88, "oy": 182, "e": 0.2304}, "u_kiosco_atras": {"x": 1532, "y": 0, "w": 165, "h": 226, "ox": 82, "oy": 193, "e": 0.2275}, "u_macetero": {"x": 1885, "y": 764, "w": 123, "h": 125, "ox": 61, "oy": 102, "e": 0.1635}, "u_parada": {"x": 269, "y": 600, "w": 44, "h": 161, "ox": 22, "oy": 158, "e": 0.2304}, "u_parada_atras": {"x": 222, "y": 600, "w": 45, "h": 162, "ox": 22, "oy": 159, "e": 0.2275}, "u_poste_trafo": {"x": 821, "y": 0, "w": 97, "h": 326, "ox": 48, "oy": 321, "e": 0.364}, "u_poste_trafo_atras": {"x": 727, "y": 0, "w": 92, "h": 329, "ox": 46, "oy": 324, "e": 0.3607}, "u_semaforo": {"x": 1314, "y": 0, "w": 45, "h": 299, "ox": 22, "oy": 291, "e": 0.188}, "u_semaforo_atras": {"x": 1267, "y": 0, "w": 45, "h": 301, "ox": 22, "oy": 293, "e": 0.1864}, "u_tablero": {"x": 1877, "y": 0, "w": 68, "h": 202, "ox": 34, "oy": 190, "e": 0.1635}, "u_tanque": {"x": 1124, "y": 397, "w": 111, "h": 172, "ox": 55, "oy": 145, "e": 0.173}, "u_valla": {"x": 1119, "y": 764, "w": 118, "h": 136, "ox": 59, "oy": 118, "e": 0.1635}, "yy_avena": {"x": 1155, "y": 1150, "w": 75, "h": 85, "ox": 37, "oy": 78, "e": 0.2255}, "yy_brotes": {"x": 759, "y": 1326, "w": 37, "h": 35, "ox": 18, "oy": 28, "e": 0.2255}, "yy_cardo": {"x": 1610, "y": 1150, "w": 57, "h": 81, "ox": 28, "oy": 74, "e": 0.2255}, "yy_cola_zorro": {"x": 1256, "y": 1245, "w": 63, "h": 60, "ox": 31, "oy": 53, "e": 0.2255}, "yy_cordon": {"x": 1808, "y": 912, "w": 138, "h": 110, "ox": 69, "oy": 103, "e": 0.2087}, "yy_diente_leon": {"x": 211, "y": 1326, "w": 40, "h": 50, "ox": 20, "oy": 43, "e": 0.2255}, "yy_diente_leon_b": {"x": 1475, "y": 1245, "w": 47, "h": 59, "ox": 23, "oy": 52, "e": 0.2255}, "yy_gramilla": {"x": 330, "y": 1326, "w": 73, "h": 48, "ox": 36, "oy": 41, "e": 0.2255}, "yy_grieta": {"x": 1816, "y": 1245, "w": 114, "h": 51, "ox": 57, "oy": 38, "e": 0.111}, "yy_llanten": {"x": 1321, "y": 1245, "w": 65, "h": 60, "ox": 32, "oy": 53, "e": 0.2255}, "yy_mostacilla": {"x": 1133, "y": 1039, "w": 68, "h": 99, "ox": 34, "oy": 92, "e": 0.2255}, "yy_mostacilla_b": {"x": 796, "y": 1150, "w": 58, "h": 91, "ox": 29, "oy": 84, "e": 0.2255}, "yy_musgo": {"x": 449, "y": 1326, "w": 74, "h": 43, "ox": 37, "oy": 36, "e": 0.2255}, "yy_ortiga": {"x": 1524, "y": 1245, "w": 59, "h": 59, "ox": 29, "oy": 52, "e": 0.2255}, "yy_ortiga_b": {"x": 1585, "y": 1245, "w": 42, "h": 59, "ox": 21, "oy": 52, "e": 0.2255}, "yy_ortiga_c": {"x": 1880, "y": 1150, "w": 45, "h": 80, "ox": 22, "oy": 73, "e": 0.2255}, "yy_pasto_seco": {"x": 405, "y": 1326, "w": 42, "h": 45, "ox": 21, "oy": 38, "e": 0.2255}, "yy_seco_alto": {"x": 1941, "y": 1039, "w": 84, "h": 94, "ox": 42, "oy": 87, "e": 0.2255}, "yy_seco_alto_b": {"x": 727, "y": 1039, "w": 63, "h": 103, "ox": 31, "oy": 96, "e": 0.2255}, "yy_trebol": {"x": 525, "y": 1326, "w": 62, "h": 41, "ox": 31, "oy": 34, "e": 0.2255}}};

diff --git a/editor/js/barrio.js b/editor/js/barrio.js
@@ -153,8 +153,8 @@ const Barrio = (() => {
         if (F.k_pelopincho && lot.w > .2 && lot.w < .7 && rx() < .1) put("k_pelopincho", ...pp());
         if (F.b_mesa_patio && rx() < (lot.w < .55 ? .18 : .06)) put("b_mesa_patio", ...pp());
         if (F.b_autito && lot.w < .5 && rx() < .2) put(rx.pick(["b_autito", "b_pelota", "b_perro_bebe", "b_tacho_azul", "b_sombrilla"]), ...pp());
-        if (F.plm_rosal && rx() < Math.min(.95, .35 * PL)) put(rx.pick(lot.w < .3 ? ["plm_tomates", "plm_yuyos", "pl_cubierta", "plm_santarita", "plm_lantana", "plm_romero"] : ["plm_rosal", "plm_jazmin", "pl_hortensia", "plm_agapanto", "plm_santarita", "plm_lantana", "plm_romero", "pl_limonero", "plm_pindo"]), ...pp());
-        if (F.plm_rosal && PL > 1 && rx() < .3 * (PL - 1)) put(rx.pick(["plm_agapanto", "pl_hortensia", "plm_lantana", "plm_jazmin", "pl_limonero", "plm_formio", "pl_malvon", "plm_santarita"]), ...pp());
+        if (F.plm_rosal && rx() < Math.min(.95, .35 * PL)) put(rx.pick(lot.w < .3 ? ["plm_tomates", "plm_yuyos", "pl_cubierta", "plm_santarita", "plm_lantana", "plm_romero", "plm_banano", "pl_palmera", "pl_suculentas"] : ["plm_rosal", "plm_jazmin", "pl_hortensia", "plm_agapanto", "plm_santarita", "plm_lantana", "plm_romero", "pl_limonero", "plm_pindo", "pl_hibisco", "plm_strelitzia", "plm_banano", "plm_plumbago", "plm_cortadera", "pl_gomero"]), ...pp());
+        if (F.plm_rosal && PL > 1 && rx() < .3 * (PL - 1)) put(rx.pick(["plm_agapanto", "pl_hortensia", "plm_lantana", "plm_jazmin", "pl_limonero", "plm_formio", "pl_malvon", "plm_santarita", "plm_banano", "pl_hibisco", "plm_strelitzia", "pl_monstera"]), ...pp());
         if ((lot.kind === "villa" || lot.w < .25) && rx() < .5) put(rx.pick(["u_tanque", "chapas", "gomas", "parrilla_tambor", "silla", "antena", "garrafa"]), ...pp());
         if (r() < .2) put("parrilla", ...pp()); if (lot.w > .3 && r() < .1) put("pileta", ...pp()); if (r() < .08 * C.gente) { const p = pp(); person(p[0], p[1], true); } }
       const s = lot.seg, side = lot.side, mid = (lot.o[0] - s.a[0]) * s.dir[0] + (lot.o[1] - s.a[1]) * s.dir[1] + (side === 1 ? lot.fw / 2 : -lot.fw / 2);
@@ -166,9 +166,9 @@ const Barrio = (() => {
         if (r() < (lot.w < .3 ? .05 : .14)) put("canasto_" + r.int(0, 2), ...near(.45), { noClaim: true });   // pegado al frente: la casa ya reservó esa franja
         // plantas en macetas contra el frente (más en zonas ricas) y alguna Santa Rita
         if (F.pl_malvon && rx() < Math.min(.95, (.22 + .4 * lot.w) * PL)) { const n = 1 + (rx() < Math.min(.9, .4 * PL)) + (rx() < .2 * lot.w * PL) + (PL > 1.4 && rx() < .3 * (PL - 1));
-          const POT = lot.kind === "villa" || lot.w < .25 ? ["pl_balde", "pl_botellas", "pl_aloe", "pl_malvon", "pl_cactus", "plm_yuyos", "pl_potus", "pl_cubierta", "plm_tomates", "pl_balde"]
-            : lot.w > .6 ? ["pl_hortensia", "pl_malvon", "pl_sansevieria", "plm_jazmin", "plm_rosal", "pl_boj", "pl_calas", "pl_limonero", "pl_ficus", "pl_helecho", "pl_lavanda", "plm_yuca"]
-            : ["pl_malvon", "pl_potus", "pl_aloe", "pl_cactus", "pl_sansevieria", "pl_hortensia", "plm_rosal", "pl_clivia", "pl_helecho", "pl_calas", "pl_malvon"];
+          const POT = lot.kind === "villa" || lot.w < .25 ? ["pl_balde", "pl_botellas", "pl_aloe", "pl_malvon", "pl_cactus", "plm_yuyos", "pl_potus", "pl_cubierta", "plm_tomates", "pl_balde", "pl_begonias", "pl_suculentas", "pl_palmera", "pl_coleo"]
+            : lot.w > .6 ? ["pl_hortensia", "pl_malvon", "pl_sansevieria", "plm_jazmin", "plm_rosal", "pl_boj", "pl_calas", "pl_limonero", "pl_ficus", "pl_helecho", "pl_lavanda", "plm_yuca", "pl_monstera", "pl_gomero", "pl_azalea", "pl_hibisco", "pl_jardinera"]
+            : ["pl_malvon", "pl_potus", "pl_aloe", "pl_cactus", "pl_sansevieria", "pl_hortensia", "plm_rosal", "pl_clivia", "pl_helecho", "pl_calas", "pl_malvon", "pl_jardinera", "pl_coleo", "pl_azalea", "pl_begonias", "pl_monstera"];
           const u0 = rx.uni(-lot.fw / 3, lot.fw / 3 - .5 * n);           // en fila, pegadas al frente
           for (let k = 0; k < n; k++) put(rx.pick(POT), ...nearX(rx.uni(.22, .36), u0 + k * rx.uni(.42, .6)), { noClaim: true }); }
         // vida en la vereda: mesas de bar frente a los negocios, motos y bicis estacionadas, perros y gatos
@@ -206,7 +206,7 @@ const Barrio = (() => {
         // canteros y cazuelas: agapantos, yuyos, bojs y arbolitos con jaula cerca del cordón
         if (F.plm_agapanto && s.sw >= 1.6) for (let t = rx.uni(2, 8); t < s.len - 2; t += rx.uni(5, 13)) {
           if (crossNear(t) || rx() > Math.min(.95, (.35 + .3 * s.w) * PL)) continue; const p = at(s, t, side * (s.hw + .5)), c = W.classify(p[0], p[1]); if (!c || c.k !== "walk" || c.s !== s) continue;
-          put(rx() < .06 ? "pl_jaula" : rx.pick(s.w > .55 ? ["plm_agapanto", "pl_boj", "plm_agapanto", "plm_jazmin", "plm_formio", "pl_lavanda", "plm_lantana"] : s.w < .3 ? ["plm_yuyos", "plm_yuyos", "plm_agapanto", "yy_seco_alto", "yy_mostacilla"] : ["plm_agapanto", "plm_yuyos", "pl_boj", "plm_romero", "plm_lantana"]), p[0], p[1]); }
+          put(rx() < .06 ? "pl_jaula" : rx.pick(s.w > .55 ? ["plm_agapanto", "pl_boj", "plm_agapanto", "plm_jazmin", "plm_formio", "pl_lavanda", "plm_lantana", "plm_strelitzia", "plm_plumbago", "plm_cortadera"] : s.w < .3 ? ["plm_yuyos", "plm_yuyos", "plm_agapanto", "yy_seco_alto", "yy_mostacilla"] : ["plm_agapanto", "plm_yuyos", "pl_boj", "plm_romero", "plm_lantana", "plm_plumbago", "plm_cortadera"]), p[0], p[1]); }
         // yuyos que salen solos: junto al cordón, en las grietas de la vereda y contra las paredes (más en los barrios pobres y en las calles de tierra)
         if (F.yy_diente_leon && s.sw >= 1) { const dens = (s.mat === "tierra" ? 1.6 : s.mat === "roto" ? 1 : .45) * (1.3 - s.w);
           for (let t = rx.uni(.5, 4); t < s.len - .5; t += rx.uni(1.5, 5) / Math.max(.15, dens)) {
